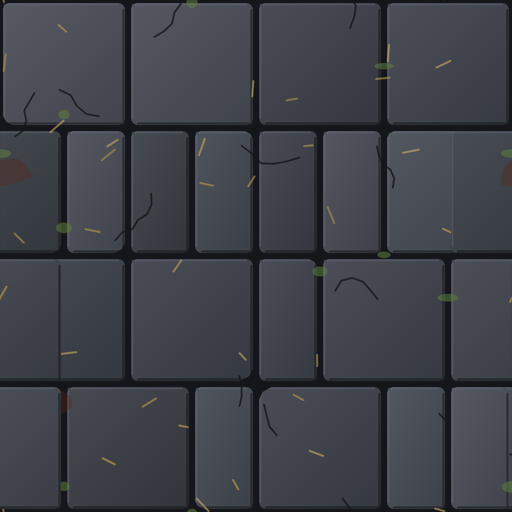
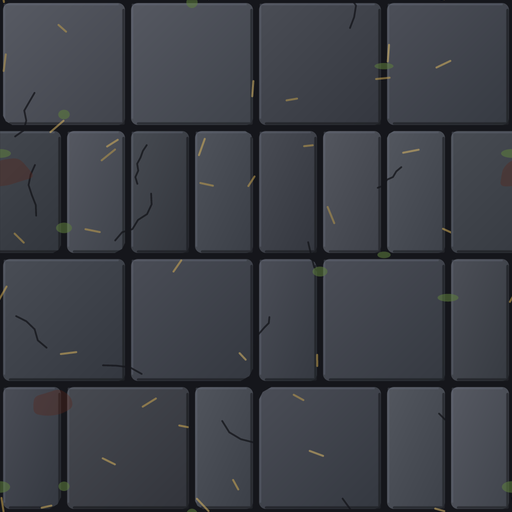
Suelos del castillo: sin cortes en las juntas y sin charcos en cuadrícula
Matías, con captura del piso 4: «los assets del suelo del piso 4 se ven
muy mal». La baldosa de las cloacas pintaba una columna de piedras de más
a cada lado, y las filas de losas de los calabozos se pasaban del ancho:
al repetirse, en cada junta salían piedras distintas una encima de otra,
un corte recto cada 512 px (pisos 2 a 6). Ahora cada piedra y cada losa
van una sola vez dentro de la baldosa.

Y la baldosa de las cloacas mide 1024 en vez de 512: los mismos tres
charcos salían en cuadrícula por toda la sala. Suelos de los pisos 1 a 6
repintados (con resvg-py) y su color_suelo al día.

diff --git a/herramientas/generar_castillo.py b/herramientas/generar_castillo.py
@@ -49,6 +49,7 @@ SALIDA = os.path.join(RAIZ, "assets", "castillo")
 RES = "res://assets/castillo"
 
 SUELO = 512      # la baldosa del suelo
+BALDOSA_CLOACAS = 1024   # la de las cloacas, el doble (suelo_cloacas)
 MURO = 256       # la de la pared vista desde arriba
 CARA_ANCHO = 512
 ALTO_CARA = 72   # EstiloBorde.alto_cara: la cara de la pared de arriba
@@ -179,9 +180,13 @@ def suelo_calabozos(z, v):
     alto = 128
     for fila in range(SUELO // alto):
         desfase = 64 if fila % 2 else 0
+        # Cada fila llena justo un ancho de baldosa (de -desfase a SUELO - desfase): lo
+        # que se sale por la izquierda lo pone la baldosa de al lado (mosaico). Antes
+        # llegaba hasta pasar de SUELO, y en la junta de dos baldosas las losas se
+        # pisaban: una raya en el suelo cada 512 px (Matias, 2026-11-19, piso 4).
         x = -desfase
-        while x < SUELO:
-            ancho = 128 if azar.random() < 0.7 else 64
+        while x < SUELO - desfase:
+            ancho = 128 if azar.random() < 0.7 and x + 128 <= SUELO - desfase else 64
             _losa(L, azar, x, fila * alto, ancho, alto, z["suelo"], z["junta"], z["suelo_luz"])
             x += ancho
     for _ in range(9 + v * 4):
@@ -205,13 +210,22 @@ def suelo_calabozos(z, v):
 
 
 def suelo_cloacas(z, v):
-    L = Lienzo(SUELO, SUELO)
+    # La baldosa, el doble que las demas (BALDOSA_CLOACAS): sus charcos son lo que mas
+    # se ve, y a 512 los mismos tres salian en cuadricula por toda la sala (Matias,
+    # 2026-11-19: «los assets del suelo del piso 4 se ven muy mal»). A 1024 se repiten
+    # una vez por sala como mucho. La sala pinta el suelo con el tamano que tenga.
+    lado_baldosa = BALDOSA_CLOACAS
+    L = Lienzo(lado_baldosa, lado_baldosa)
     azar = azar_de("suelo", "cloacas", v)
-    L.rect(0, 0, SUELO, SUELO, z["junta"], trazo=None)
+    L.rect(0, 0, lado_baldosa, lado_baldosa, z["junta"], trazo=None)
     lado = 64
-    for fila in range(SUELO // lado):
+    for fila in range(lado_baldosa // lado):
         desfase = lado // 2 if fila % 2 else 0
-        for col in range(-1, SUELO // lado + 1):
+        # Una piedra por hueco, solo los de dentro de la baldosa: las que asoman por un
+        # lado las pone la baldosa de al lado (mosaico). Con una columna de mas a cada
+        # lado, en la junta salian dos piedras distintas una encima de otra y se veia
+        # un corte recto en cada junta (Matias, 2026-11-19).
+        for col in range(lado_baldosa // lado):
             cx = col * lado + desfase + lado * 0.5 + azar.uniform(-3, 3)
             cy = fila * lado + lado * 0.5 + azar.uniform(-3, 3)
             base = variar(z["suelo"], azar, 0.12)
@@ -219,16 +233,17 @@ def suelo_cloacas(z, v):
             d = piedra_irregular(azar, cx, cy, lado * 0.53, lado * 0.5, 9, 0.1)
             L.forma(d, L.radial([(0, aclarar(base, 0.14)), (0.75, base), (1, oscurecer(base, 0.25))],
                                 0.4, 0.35, 0.7), trazo=oscurecer(z["junta"], 0.2), ancho=1.5)
-    # Charcos (mas en el aljibe) y limo.
-    for _ in range(3 + v * 3):
-        cx, cy = azar.uniform(0, SUELO), azar.uniform(0, SUELO)
+    # Charcos (mas en el aljibe) y limo. Con cuatro veces la superficie, el doble de
+    # charcos que en una baldosa de 512: la mitad por metro, que llenaban el suelo.
+    for _ in range((3 + v * 3) * 2):
+        cx, cy = azar.uniform(0, lado_baldosa), azar.uniform(0, lado_baldosa)
         rx, ry = azar.uniform(26, 60), azar.uniform(16, 34)
         d = piedra_irregular(azar, cx, cy, rx, ry, 11, 0.25)
         L.forma(d, z["agua"], trazo=oscurecer(z["agua"], 0.4), ancho=2.0, extra='opacity="0.88"')
         L.linea("M %s %s q %s %s %s %s" % (f(cx - rx * 0.5), f(cy - ry * 0.25), f(rx * 0.3), f(-ry * 0.3),
                                          f(rx * 0.6), f(-ry * 0.1)), z["agua_luz"], 2.2, 0.55)
-    for _ in range(6 + v * 6):
-        cx, cy = azar.uniform(0, SUELO), azar.uniform(0, SUELO)
+    for _ in range((6 + v * 6) * 4):
+        cx, cy = azar.uniform(0, lado_baldosa), azar.uniform(0, lado_baldosa)
         L.forma(piedra_irregular(azar, cx, cy, azar.uniform(6, 14), azar.uniform(4, 9), 7, 0.3),
                 z["limo"], trazo=None, extra='opacity="0.4"')
     return L.mosaico()

diff --git a/CLAUDE.md b/CLAUDE.md
@@ -1373,6 +1373,16 @@ Arranca en `MenuPrincipal.tscn` (jugar, controles, salir). La partida vive en
   - **La luz se mide al generar**: `generar_castillo.calibrar` lleva cada obstáculo
     fuera de 0,45-1,6 veces la luz del suelo de su zona (casi todos quedan en 1,75;
     las del trono, de 2 a 3).
+  - **Los suelos empalman** (2026-11-19, Matías: «los assets del suelo del piso 4 se
+    ven muy mal», con captura): la baldosa de las cloacas pintaba una columna de
+    piedras de más a cada lado, y las filas de losas de los calabozos se pasaban del
+    ancho; con la repetición de `Lienzo.mosaico`, en cada junta salían piedras
+    distintas una encima de otra: un corte recto cada 512 px (en los pisos 2 a 6; medido
+    comparando el borde de la baldosa con el resto). Ahora cada piedra y cada losa
+    va una vez dentro de la baldosa. Y **la de las cloacas mide 1024**
+    (`BALDOSA_CLOACAS`; la sala pinta el suelo con el tamaño que tenga): a 512 los
+    mismos tres charcos salían en cuadrícula por la sala. Suelos de los pisos 1 a 6
+    repintados con `resvg-py` y su `color_suelo` puesto al día.
   - **Piezas que se salían de su lienzo** (revisión del 2026-11-19, Matías: «revísalos
     para que esté todo bien»): se buscaron las que tienen relleno claro en el borde
     de su imagen (el contorno oscuro en el borde es normal; los colgantes empiezan
